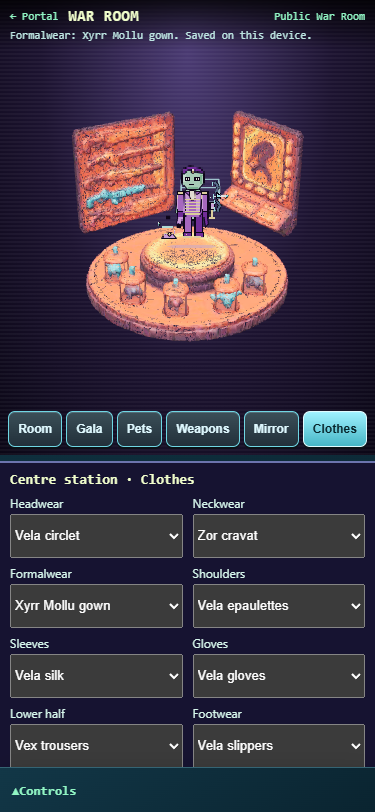
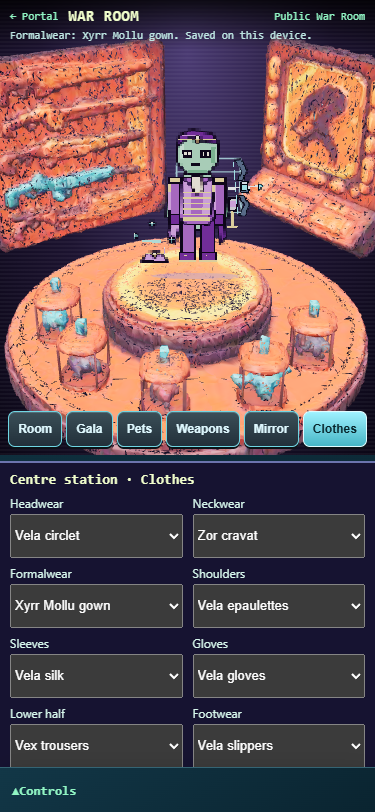
War Room: tighten the Room overview so the cage fills the viewport
Follow-up to e606884: the room (walls, pedestal, platform) was only
~60% of viewport width, floating mid-screen. The overview camera in
cage.ts fits a sphere sized to the room's full 3D bounding-box
diagonal into frame; since the room's depth/height pad that diagonal
well beyond its front-on width, the sphere-fit left large empty
margins on every side at the app's narrow portrait aspect.

Retuned VIEWS.overview.pad (cage.ts) from .92 to .5 to compensate.
This is shared with the coach's own customizer cage, but only the
'overview' pad changed — pedestal/pets/weapons/mirror/clothing pads
(and the fit algorithm itself) are untouched, so per-bay close-ups
and the customizer's own "Cage" view are unaffected. Verified with
tests/customizer-cage.browser.test.mjs (7/7 still pass).

Frames: .frames/r7-warroom/room-before-*.png (old pad) vs
room-after-*.png (new pad) at 375x812 and 375x667; the room now
spans ~95%+ of width at both sizes with no clipping and no overlap
with the cage-bays row or the Controls drawer. Re-captured the
war-room-gala test's own frames too.

Tests: same trio as before, 10/10 node + 2/2 playwright, unchanged.

diff --git a/creature/source/cage.ts b/creature/source/cage.ts
@@ -29,7 +29,7 @@ const VOLUMES:Record<Exclude<CageSection,'overview'>,Volume[]>={
 };
 // Where each view looks from (a direction from the section toward the camera) and what it keeps in frame.
 const VIEWS:Record<CageSection,{from:[number,number,number];coach:boolean;pad:number}>={
- overview:{from:[0,.5,1],coach:true,pad:.92},
+ overview:{from:[0,.5,1],coach:true,pad:.5},
  pedestal:{from:[0,.18,1],coach:true,pad:1.02},
  pets:{from:[.1,.95,1],coach:false,pad:1},
  weapons:{from:[-.1,.2,1],coach:false,pad:1},
